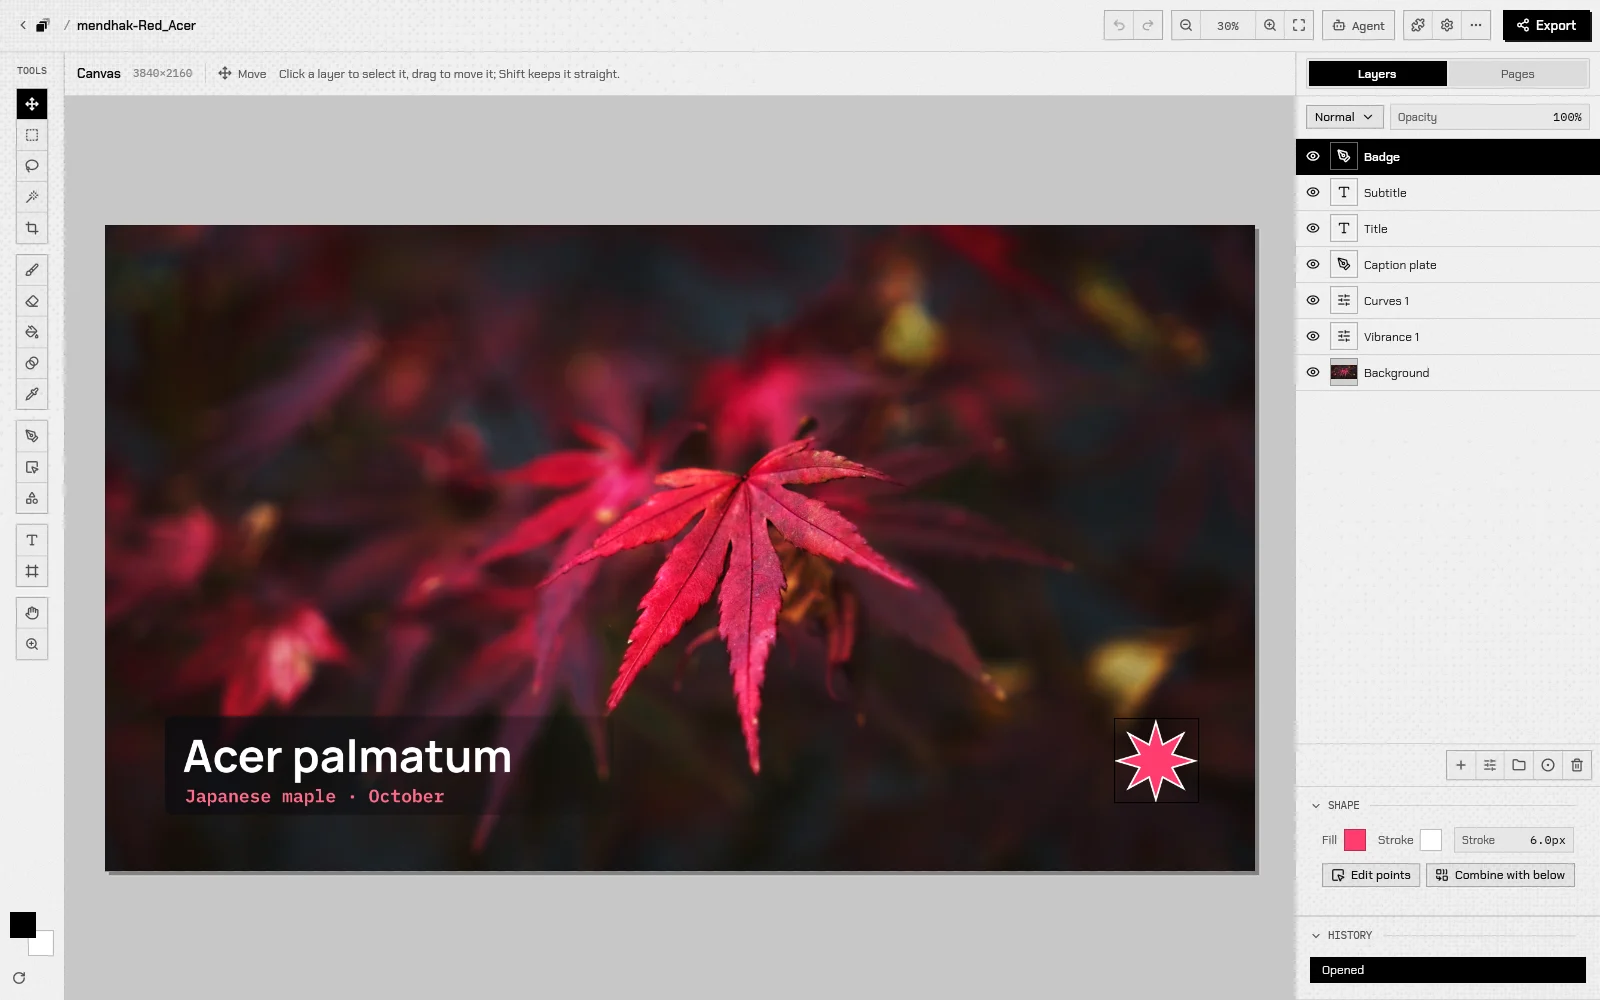
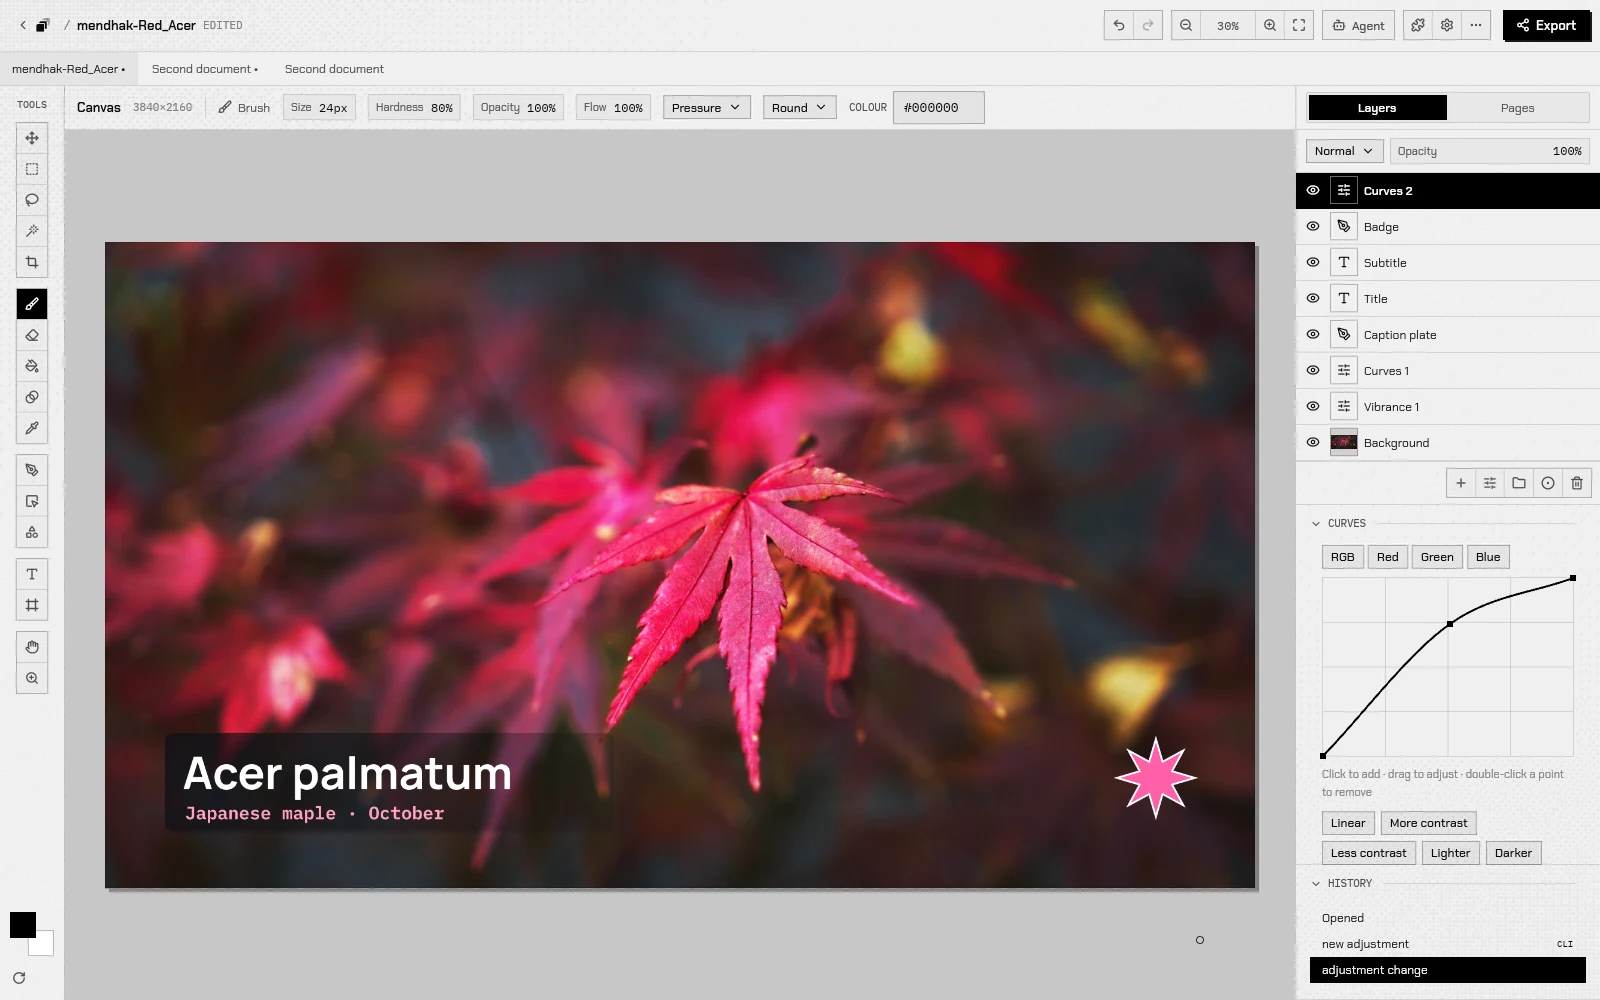
Show completed nori tools, format support and native UI captures

diff --git a/nori/index.html b/nori/index.html
@@ -56,12 +56,12 @@
         <p class="lede reveal" style="--d:1">Raster layers, vector shapes and pages live side by side in one <code>.nori</code> file: plain data in Rust, drawn on the GPU in lsuite's black-and-white look. All three share one canvas and one undo history.</p>
       </div>
       <div class="grid grid--3">
-        <div class="cell reveal"><span class="cell__k">Photo</span><h3>Layers and masks</h3><p>Pixel and adjustment layers with masks, blend modes and opacity, grouped and reordered like you expect.</p></div>
+        <div class="cell reveal"><span class="cell__k">Photo</span><h3>Layers and masks</h3><p>Pixel and adjustment layers, masks and blend modes. Embedded smart objects preserve their originals when resized, with separate document tabs and undo histories.</p></div>
         <div class="cell reveal" style="--d:1"><span class="cell__k">Vector</span><h3>Paths, shapes and type</h3><p>Pen paths, shapes, strokes and fills that stay sharp at any size, next to the pixels they sit on.</p></div>
         <div class="cell reveal" style="--d:2"><span class="cell__k">Layout</span><h3>Pages and text frames</h3><p>Pages, margins and grids, text that flows from frame to frame, and images placed from the same document.</p></div>
-        <div class="cell reveal"><span class="cell__k">Adjust</span><h3>Adjustments and filters</h3><p>Levels, curves, hue and saturation, colour balance, <code>.cube</code> LUTs, blurs and sharpening, worked out in tiles at full precision.</p></div>
-        <div class="cell reveal" style="--d:1"><span class="cell__k">Paint</span><h3>A brush engine</h3><p>Pressure, spacing and hardness, an eraser and a smudge, and brushes from <code>.gbr</code> files; swatches from <code>.ase</code>.</p></div>
-        <div class="cell reveal" style="--d:2"><span class="cell__k">Files</span><h3>Open formats</h3><p>PNG, JPEG, WebP, TIFF, BMP and GIF in and out, PSD and OpenRaster layers in, and the <code>.nori</code> document, a file you can read.</p></div>
+        <div class="cell reveal"><span class="cell__k">Adjust</span><h3>Adjustments and filters</h3><p>Levels, an interactive RGB/channel curves graph, hue and saturation, <code>.cube</code> LUTs, blurs and sharpening, worked out in tiles at full precision.</p></div>
+        <div class="cell reveal" style="--d:1"><span class="cell__k">Paint</span><h3>A brush engine</h3><p>Size, flow, spacing, hardness and pressure controls, an eraser, and brushes from <code>.gbr</code> files; swatches from <code>.ase</code>.</p></div>
+        <div class="cell reveal" style="--d:2"><span class="cell__k">Files</span><h3>Open formats</h3><p>PNG, JPEG, WebP, TIFF, BMP, layered PSD and OpenRaster export; PDF with selectable text; IDML in and out; PDF-compatible Illustrator and 8-bit GIMP XCF import; and the <code>.nori</code> document, a file you can read.</p></div>
       </div>
     </div>
   </section>
@@ -71,13 +71,13 @@
       <div class="stack">
         <span class="eyebrow">Coming from another editor</span>
         <h2 class="h2 reveal" id="from-title">Three apps you'd pay for, in one you don't.</h2>
-        <p class="lede reveal" style="--d:1">What you'd do in Photoshop, Illustrator and InDesign happens in one nori document. It opens Photoshop documents with their layers and imports GIMP brushes, so your work comes along.</p>
+        <p class="lede reveal" style="--d:1">What you'd do in Photoshop, Illustrator and InDesign happens in one nori document. It opens Photoshop documents with their layers and imports GIMP brushes, so your work comes along. Complex PSD and IDML content uses rendered fallbacks; Illustrator import needs PDF compatibility. <a href="https://github.com/ludovic111/nori#beta-interoperability-and-pressure">Format and tablet support details</a>.</p>
       </div>
       <div class="logos reveal" style="--d:1">
-        <div class="logo-tile"><img src="/assets/img/logos/photoshop.svg" width="32" height="32" alt=""><b>Adobe Photoshop</b><span>Photo editing · PSD documents, layers in</span></div>
-        <div class="logo-tile"><img src="/assets/img/logos/illustrator.svg" width="32" height="32" alt=""><b>Adobe Illustrator</b><span>Vector illustration, in the same document</span></div>
-        <div class="logo-tile"><img src="/assets/img/logos/indesign.svg" width="32" height="32" alt=""><b>Adobe InDesign</b><span>Page layout, in the same document</span></div>
-        <div class="logo-tile"><img src="/assets/img/logos/gimp.svg" width="32" height="32" alt=""><b>GIMP</b><span><code>.gbr</code> brushes, and OpenRaster layers</span></div>
+        <div class="logo-tile"><img src="/assets/img/logos/photoshop.svg" width="32" height="32" alt=""><b>Adobe Photoshop</b><span>PSD import and layered export</span></div>
+        <div class="logo-tile"><img src="/assets/img/logos/illustrator.svg" width="32" height="32" alt=""><b>Adobe Illustrator</b><span>PDF-compatible AI and SVG import</span></div>
+        <div class="logo-tile"><img src="/assets/img/logos/indesign.svg" width="32" height="32" alt=""><b>Adobe InDesign</b><span>IDML import and export</span></div>
+        <div class="logo-tile"><img src="/assets/img/logos/gimp.svg" width="32" height="32" alt=""><b>GIMP</b><span>8-bit XCF, OpenRaster and .gbr brushes</span></div>
       </div>
     </div>
   </section>
@@ -93,8 +93,8 @@
 <span class="line">claude mcp add nori -- /Applications/nori.app/Contents/MacOS/nori-mcp --live</span>
 <span class="line"></span>
 <span class="line"><span class="c"># or a script, on the app or a .nori file</span></span>
-<span class="line">nori-cli document.overview</span>
-<span class="line">nori-cli --file poster.nori export.png path=poster.png</span></pre></div>
+<span class="line">nori-cli doc.overview</span>
+<span class="line">nori-cli --file poster.nori export.file path=poster.png</span></pre></div>
     </div>
   </section>
 

diff --git a/README.md b/README.md
@@ -7,10 +7,10 @@ in beta:
 | App | Kind | Page | Repository and releases |
 | --- | --- | --- | --- |
 | ryolune | music | `/ryolune` | [ludovic111/ryolune](https://github.com/ludovic111/ryolune) (0.14.x) |
-| kimchi | video | `/kimchi` | [ludovic111/kimchi](https://github.com/ludovic111/kimchi) (0.9.x) |
-| zenith | code | `/zenith` | [ludovic111/zenith](https://github.com/ludovic111/zenith) (0.3.x) |
+| kimchi | video | `/kimchi` | [ludovic111/kimchi](https://github.com/ludovic111/kimchi) (0.10.0) |
+| zenith | code | `/zenith` | [ludovic111/zenith](https://github.com/ludovic111/zenith) (0.4.0) |
 | nori | image and design (Photoshop + Illustrator + InDesign in one document) | `/nori` | local 0.1.0 build; first public release pending |
-| folio | office (documents, spreadsheets, presentations) | `/folio` | local 0.1.0 build; first public release pending |
+| folio | office (documents, spreadsheets, presentations) | `/folio` | [ludovic111/folio](https://github.com/ludovic111/folio/releases/tag/v0.1.0) (0.1.0) |
 
 The apps are free and MIT licensed. The one thing lsuite sells is optional: **lsuite AI**
 ([AI.md](AI.md)), agents that work in every app without setup, a demo for now (no payment is
@@ -45,7 +45,7 @@ npm test
 - `%VERSION:<app>%` becomes the version of the app's latest published GitHub release (cached
   10 min, `FALLBACK_VERSIONS` when GitHub cannot be reached), so a page never announces a version
   that cannot be downloaded yet. ryolune, kimchi and zenith are looked up (`REPOS` in
-  `server.js`); nori and folio ask for no version until their first release.
+  `server.js`); nori asks for no version until its first release.
 - CSP is `'self'` only: no inline scripts, no third-party requests.
 
 ## Design system
@@ -59,7 +59,7 @@ are under `/design/`.
 
 | Path | Does |
 | --- | --- |
-| `/<app>/download[/<platform>]` | 302 to the matching asset of the app's latest release on GitHub (`DOWNLOADS` in `server.js`, looked up on the GitHub API, cached 10 min); without a platform the visitor's OS picks one; a platform with no matching asset goes to the release page. ryolune: `macos-arm64`, `macos-x86_64` (.zip), `windows-x86_64` (.exe), `windows-zip`, `linux-x86_64` (.tar.gz). kimchi: `macos-arm64`, `macos-x86_64`, `windows-x86_64`, `windows-msi`, `linux-appimage`, `linux-deb`, `linux-rpm` (the native app ships no MSI or RPM, so those land on the release page). zenith: `macos-arm64`, `macos-x86_64`, `linux-x86_64`. nori and folio (`published: false`): 302 to their pages. |
+| `/<app>/download[/<platform>]` | 302 to the matching asset of the app's latest release on GitHub (`DOWNLOADS` in `server.js`, looked up on the GitHub API, cached 10 min); without a platform the visitor's OS picks one; a platform with no matching asset goes to the release page. ryolune: `macos-arm64`, `macos-x86_64` (.zip), `windows-x86_64` (.exe), `windows-zip`, `linux-x86_64` (.tar.gz). kimchi: `macos-arm64`, `macos-x86_64`, `windows-x86_64`, `windows-msi`, `linux-appimage`, `linux-deb`, `linux-rpm` (the native app ships no MSI or RPM, so those land on the release page). zenith: `macos-arm64`, `macos-x86_64`, `linux-x86_64`. folio: `macos-arm64`, `macos-x86_64`, `windows-x86_64`, `linux-x86_64`. nori (`published: false`): 302 to its page. |
 | `/api/ai/…`, `/api/account/…` | lsuite AI and accounts (AI.md, `ai.js`): JSON, Anthropic-compatible `/api/ai/v1/messages`. `LSUITE_DATA_DIR` holds `accounts.json` (in memory when unset); `LSUITE_ANTHROPIC_API_KEY` makes model requests real (a demo answer without it). |
 | `/ai`, `/account`, `/account/connect`, `/account/checkout` | lsuite AI and the account pages (session cookie `lsuite_session`, HttpOnly, SameSite=Lax). |
 | `/support`, `/<app>/support` | 302 to `LSUITE_DONATION_URL` (https only), else GitHub Sponsors. |
